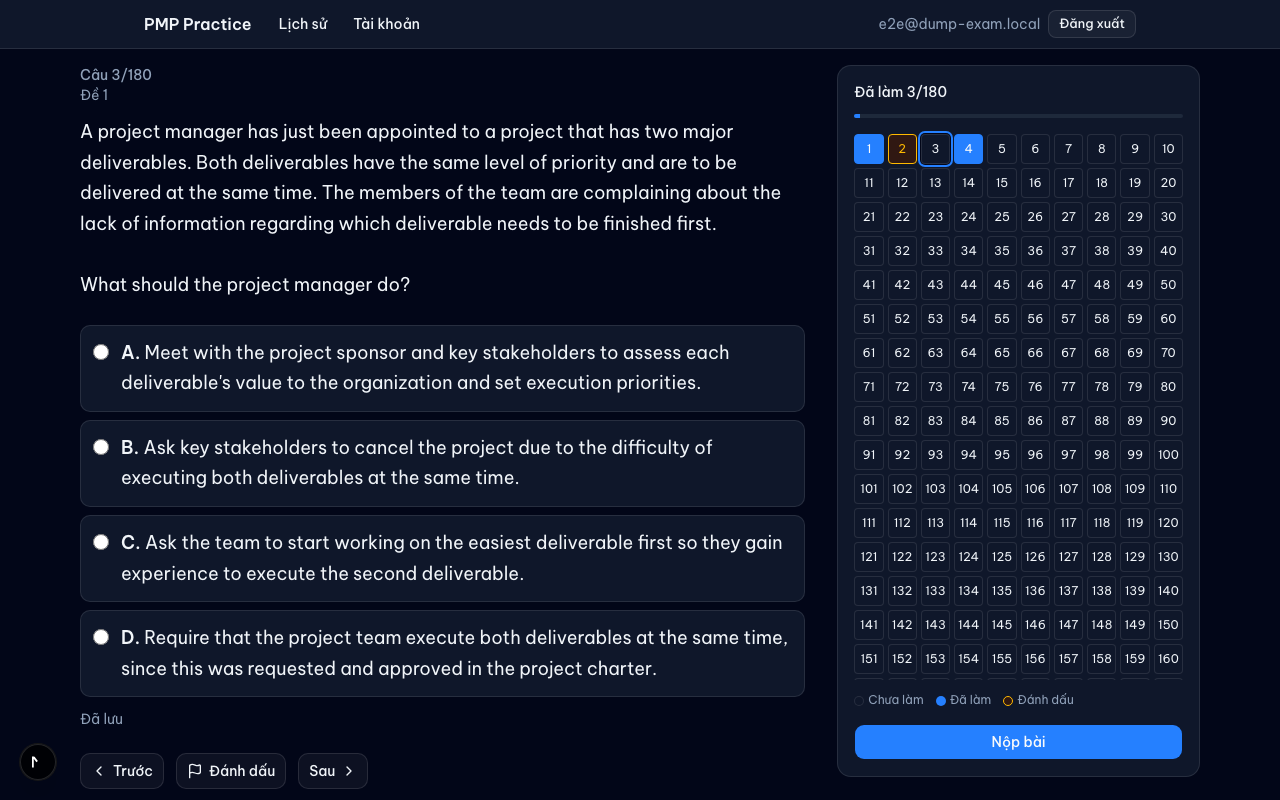
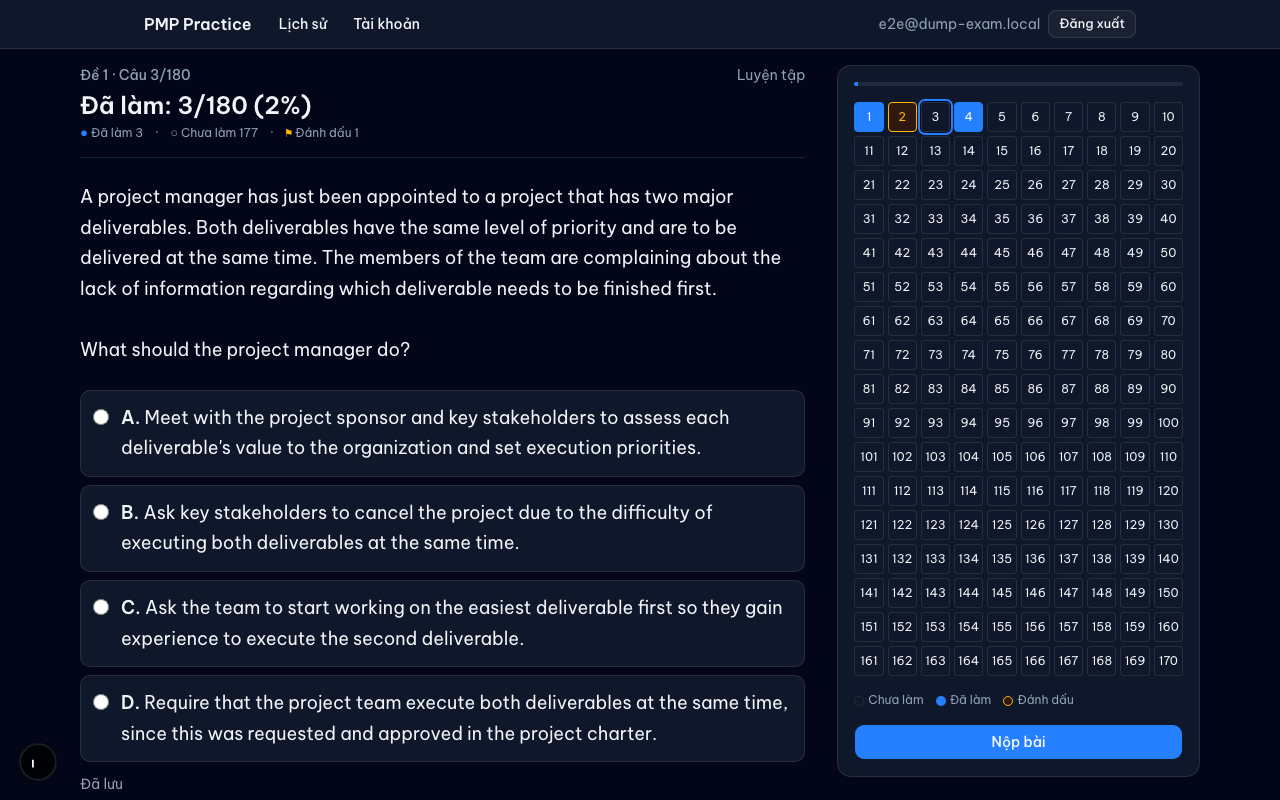
feat(attempt): shared 3-line header on Attempt and Result screens
Exam name, position, main figure and stats stay in view; Result tabs show counts.

diff --git a/e2e/attempt.spec.ts b/e2e/attempt.spec.ts
@@ -17,13 +17,15 @@ test("desktop: keyboard switches, answers and marks; the answer survives a reloa
   await page.setViewportSize({ width: 1280, height: 800 });
   await startPractice(page);
   await expect(page.getByRole("link", { name: "Lịch sử" })).toBeVisible(); // shared header
-  await expect(visible(page, "Câu 1/180")).toBeVisible();
+  await expect(visible(page, "Đề 1 · Câu 1/180")).toBeVisible();
 
   await page.keyboard.press("ArrowRight");
   await expect(page).toHaveURL(/\?q=2$/);
-  await expect(visible(page, "Câu 2/180")).toBeVisible();
+  await expect(visible(page, "Đề 1 · Câu 2/180")).toBeVisible();
+  await expect(visible(page, "Đã làm: 0/180 (0%)")).toBeVisible();
   await page.keyboard.press("a");
   await expect(page.getByRole("button", { name: "Câu 2, đã trả lời" })).toBeVisible();
+  await expect(visible(page, "Đã làm: 1/180 (1%)")).toBeVisible();
   await expect(page.getByRole("status")).toHaveText("Đã lưu");
   await page.keyboard.press("m");
   await expect(page.getByRole("button", { name: "Câu 2, đánh dấu" })).toBeVisible();
@@ -35,11 +37,11 @@ test("desktop: keyboard switches, answers and marks; the answer survives a reloa
   await page.waitForURL(/\/history/);
   await page.goBack(); // the Router Cache holds the page as first loaded, with nothing answered: it must refresh
   await expect(page.getByRole("button", { name: "Câu 2, đánh dấu" })).toBeVisible();
-  await expect(visible(page, "Câu 2/180")).toBeVisible();
+  await expect(visible(page, "Đề 1 · Câu 2/180")).toBeVisible();
   await expect(page.locator("fieldset input").first()).toBeChecked();
 
   await page.reload(); // saved on the server, and ?q=2 opens the same Question
-  await expect(visible(page, "Câu 2/180")).toBeVisible();
+  await expect(visible(page, "Đề 1 · Câu 2/180")).toBeVisible();
   await expect(page.locator("fieldset input").first()).toBeChecked();
   await expect(page.getByRole("button", { name: "Câu 2, đánh dấu" })).toBeVisible();
 
@@ -57,16 +59,17 @@ test("desktop: keyboard switches, answers and marks; the answer survives a reloa
   await page.keyboard.press("ArrowRight"); // ignored while a Dialog is open
   await expect(page).not.toHaveURL(/\?q=2/);
   await page.getByRole("dialog").getByRole("button", { name: "Nộp bài" }).click();
-  await expect(page.getByText(/^\d+\/180/).filter({ visible: true }).first()).toBeVisible();
-  await expect(page.getByText(/^\d+\/180/).first()).toBeVisible(); // Score
+  await expect(page.getByText(/^Điểm: \d+\/180/).filter({ visible: true })).toBeVisible(); // Score
+  await expect(visible(page, "Đề 1 · Câu 1/180")).toBeVisible();
+  await expect(page.getByRole("tab", { name: /^Tất cả 180$/ })).toBeVisible();
   await page.waitForLoadState("networkidle");
 
   // Result: tab Sai keeps only wrong Questions in the grid, ←/→ walk inside it, the URL follows
   const grid = page.locator("aside ol button");
   await expect(grid).toHaveCount(180);
-  await page.getByRole("tab", { name: "Sai" }).click();
+  await page.getByRole("tab", { name: /^Sai \d+$/ }).click();
   await expect(page).toHaveURL(/f=wrong/);
-  await expect(page.getByRole("tab", { name: "Sai" })).toHaveAttribute("aria-selected", "true");
+  await expect(page.getByRole("tab", { name: /^Sai \d+$/ })).toHaveAttribute("aria-selected", "true");
   const n = await grid.count();
   expect(n).toBeGreaterThanOrEqual(179); // only Câu 2 could be right
   await expect(page.locator('aside ol button[aria-label*=", đúng"]')).toHaveCount(0);
@@ -83,9 +86,9 @@ test("desktop: keyboard switches, answers and marks; the answer survives a reloa
 test("mobile: bottom bar moves, the grid drawer jumps to a Question, submit from the drawer", async ({ page }) => {
   await page.setViewportSize({ width: 390, height: 844 });
   await startPractice(page);
-  await expect(visible(page, "Câu 1/180")).toBeVisible();
+  await expect(visible(page, "Đề 1 · Câu 1/180")).toBeVisible();
   await button(page, "Sau").click();
-  await expect(visible(page, "Câu 2/180")).toBeVisible();
+  await expect(visible(page, "Đề 1 · Câu 2/180")).toBeVisible();
   await button(page, "Đánh dấu").click();
 
   await button(page, "Lưới câu").click();
@@ -93,7 +96,7 @@ test("mobile: bottom bar moves, the grid drawer jumps to a Question, submit from
   await expect(drawer.getByRole("button", { name: "Câu 2, đánh dấu" })).toBeVisible();
   await drawer.getByRole("button", { name: "Câu 10, chưa trả lời" }).click();
   await expect(drawer).toBeHidden();
-  await expect(visible(page, "Câu 10/180")).toBeVisible();
+  await expect(visible(page, "Đề 1 · Câu 10/180")).toBeVisible();
   await expect(page).toHaveURL(/\?q=10$/);
 
   await button(page, "Lưới câu").click();
@@ -101,5 +104,5 @@ test("mobile: bottom bar moves, the grid drawer jumps to a Question, submit from
   const confirm = page.getByRole("dialog").filter({ hasText: "Nộp bài?" });
   await expect(confirm).toContainText("Còn 180 câu chưa trả lời, 1 câu đánh dấu");
   await confirm.getByRole("button", { name: "Nộp bài" }).click();
-  await expect(page.getByText(/^\d+\/180/).filter({ visible: true }).first()).toBeVisible();
+  await expect(page.getByText(/^Điểm: \d+\/180/).filter({ visible: true })).toBeVisible();
 });

diff --git a/app/attempts/[id]/result-screen.tsx b/app/attempts/[id]/result-screen.tsx
@@ -6,10 +6,12 @@ import { Badge } from "@/components/ui/badge";
 import { Button } from "@/components/ui/button";
 import type { Choice } from "@/db/schema";
 import { cn } from "@/lib/utils";
-import { inTab, resultCell, type ResultTab } from "./logic";
-import { QuestionLayout, usePosition } from "./question-layout";
+import { formatDuration, inTab, resultCell, type ResultTab } from "./logic";
+import { QuestionLayout, Stats, usePosition } from "./question-layout";
 
 type Question = { id: number; text: string; choices: (Choice & { percent: number })[]; correct: string; suggested: string; selected: string[]; isCorrect: boolean; marked: boolean };
+
+const TIME_LIMIT_MIN = 230; // keep in step with TIME_LIMIT_MS in lib/attempts.ts (not importable into a client file)
 
 const tabs: { value: ResultTab; label: string }[] = [
   { value: undefined, label: "Tất cả" },
@@ -18,7 +20,7 @@ const tabs: { value: ResultTab; label: string }[] = [
 ];
 
 /** Read-only Result: all Questions arrive once, the tab and position switch on the client (`?f=`, `?q=` follow via replaceState). */
-export function ResultScreen(props: { examName: string; score: number; timed: boolean; minutes: number; questions: Question[]; initialPos: number; initialTab: ResultTab }) {
+export function ResultScreen(props: { examName: string; score: number; timed: boolean; durationSec: number; questions: Question[]; initialPos: number; initialTab: ResultTab }) {
   const { questions: qs } = props;
   const total = qs.length;
   const [pos, go] = usePosition(props.initialPos);
@@ -49,36 +51,40 @@ export function ResultScreen(props: { examName: string; score: number; timed: bo
   });
   const pct = Math.round((props.score / total) * 100);
 
-  const header = (
-    <header className="mb-6 border-b pb-4">
-      <p className="text-sm text-muted-foreground">{props.examName}</p>
-      <p className="mt-1 text-3xl font-semibold tabular-nums">
-        {props.score}/{total} <span className="text-xl text-muted-foreground">({pct}%)</span>
-      </p>
-      <p className="mt-1 text-sm text-muted-foreground">
-        {props.timed ? "Thi thử có bấm giờ" : "Luyện tập không bấm giờ"} · {props.minutes} phút
-      </p>
-      <div role="tablist" aria-label="Lọc câu" className="mt-4 flex flex-wrap gap-2">
-        {tabs.map((t) => (
-          <Button key={t.label} role="tab" aria-selected={tab === t.value} variant={tab === t.value ? "default" : "outline"} size="sm" onClick={() => pickTab(t.value)}>
-            {t.label}
-          </Button>
-        ))}
-      </div>
-    </header>
+  const blank = qs.filter((x) => !x.selected.length).length;
+  const wrongTab = qs.filter((x) => !x.isCorrect).length; // blanks are wrong (Score rule)
+  const markedN = qs.filter((x) => x.marked).length;
+  const counts = { all: total, wrong: wrongTab, marked: markedN };
+  const tabBar = (
+    <div role="tablist" aria-label="Lọc câu" className="flex flex-wrap gap-2">
+      {tabs.map((t) => (
+        <Button key={t.label} role="tab" aria-selected={tab === t.value} variant={tab === t.value ? "default" : "outline"} size="sm" onClick={() => pickTab(t.value)}>
+          {t.label} {counts[t.value ?? "all"]}
+        </Button>
+      ))}
+    </div>
   );
 
   return (
     <QuestionLayout
+      examName={props.examName}
+      meta={props.timed ? `Thi thử · ${formatDuration(props.durationSec)} / ${TIME_LIMIT_MIN} phút` : `Luyện tập · ${formatDuration(props.durationSec)}`}
+      figure={`Điểm: ${props.score}/${total} (${pct}%)`}
+      stats={
+        <Stats
+          items={[
+            { glyph: "✓", label: "Đúng", n: total - wrongTab, tone: "text-correct" },
+            { glyph: "✗", label: "Sai", n: wrongTab - blank, tone: "text-wrong" },
+            { glyph: "○", label: "Bỏ trống", n: blank },
+            { glyph: "⚑", label: "Đánh dấu", n: markedN, tone: "text-marked" },
+          ]}
+        />
+      }
+      tabs={tabBar}
       pos={pos}
       total={total}
       cells={cells}
       onGo={go}
-      side={
-        <p className="text-sm font-medium tabular-nums">
-          {props.score}/{total} ({pct}%) · {shown.length} câu
-        </p>
-      }
       footer={
         <>
           <p className="flex flex-wrap gap-x-3 gap-y-1 text-xs text-muted-foreground">
@@ -89,7 +95,6 @@ export function ResultScreen(props: { examName: string; score: number; timed: bo
         </>
       }
     >
-      {header}
       {!shown.length || !q ? (
         <p className="rounded-xl border bg-card p-6 text-center text-muted-foreground">
           {tab === "wrong" ? "Không có câu sai nào. Làm tốt lắm!" : tab === "marked" ? "Bạn chưa đánh dấu câu nào." : "Không có câu nào."}

diff --git a/app/attempts/[id]/question-layout.tsx b/app/attempts/[id]/question-layout.tsx
@@ -33,6 +33,11 @@ const isTyping = (t: EventTarget | null) =>
  * bars and a grid drawer on mobile, ←/→ between `cells`. Other shortcuts go to `onCommand`, which returns whether it used them.
  */
 export function QuestionLayout(props: {
+  examName: string; // line 1: "Đề 2 · Câu 72/180"
+  meta?: React.ReactNode; // line 1, right-aligned
+  figure: React.ReactNode; // line 2
+  stats: React.ReactNode; // line 3, see Stats
+  tabs?: React.ReactNode; // Result: above the grid on desktop, below line 3 on mobile
   pos: number;
   total: number;
   cells: GridCell[]; // the Questions you can move between, in order (Result may pass a filtered list)
@@ -49,6 +54,7 @@ export function QuestionLayout(props: {
   const i = cells.findIndex((c) => c.pos === pos);
   const prev = cells[i - 1]?.pos;
   const next = cells[i + 1]?.pos;
+  const heading = `${props.examName} · Câu ${pos}/${total}`;
 
   useEffect(() => {
     function onKey(e: KeyboardEvent) {
@@ -107,9 +113,7 @@ export function QuestionLayout(props: {
   return (
     <>
       <div className="sticky top-0 z-10 flex items-center gap-3 border-b bg-background px-4 py-2 lg:hidden">
-        <span className="font-medium tabular-nums">
-          Câu {pos}/{total}
-        </span>
+        <span className="min-w-0 truncate font-medium tabular-nums">{heading}</span>
         {props.timer}
         <Sheet open={gridOpen} onOpenChange={setGridOpen}>
           <SheetTrigger render={<Button variant="outline" className="ml-auto" />}>
@@ -128,9 +132,18 @@ export function QuestionLayout(props: {
 
       <main className="mx-auto max-w-6xl p-4 pb-24 lg:grid lg:grid-cols-[minmax(0,2fr)_minmax(0,1fr)] lg:gap-8 lg:pb-8">
         <div>
-          <p className="hidden text-sm font-medium text-muted-foreground tabular-nums lg:block">
-            Câu {pos}/{total}
-          </p>
+          <header className="mb-6 border-b pb-4">
+            <div className="hidden items-baseline justify-between gap-3 text-sm text-muted-foreground lg:flex">
+              <p className="min-w-0 truncate font-medium tabular-nums">{heading}</p>
+              {props.meta && <p className="shrink-0">{props.meta}</p>}
+            </div>
+            <div className="flex items-baseline justify-between gap-3 lg:mt-1">
+              <p className="whitespace-nowrap text-xl font-semibold tabular-nums lg:text-2xl">{props.figure}</p>
+              {props.meta && <p className="shrink-0 text-sm text-muted-foreground lg:hidden">{props.meta}</p>}
+            </div>
+            <p className="mt-1 flex flex-wrap gap-x-3 gap-y-1 text-xs text-muted-foreground tabular-nums">{props.stats}</p>
+            {props.tabs && <div className="mt-4 lg:hidden">{props.tabs}</div>}
+          </header>
           {props.children}
           <nav className="mt-6 hidden items-center gap-3 lg:flex">
             {prevButton}
@@ -145,6 +158,7 @@ export function QuestionLayout(props: {
           <div className="sticky top-4 flex max-h-[calc(100dvh-5.5rem)] flex-col gap-4 rounded-xl border bg-card p-4">
             {props.timer}
             {props.side}
+            {props.tabs}
             {grid}
             {props.footer}
           </div>
@@ -158,4 +172,14 @@ export function QuestionLayout(props: {
       </nav>
     </>
   );
+}
+
+/** Line 3: muted glyph + label + count per item; `tone` is a theme-token text class. */
+export function Stats({ items }: { items: { glyph: string; label: string; n: number; tone?: string }[] }) {
+  return items.map((x, i) => (
+    <span key={x.label}>
+      {i > 0 && <span aria-hidden className="mr-3">·</span>}
+      <span aria-hidden className={x.tone}>{x.glyph}</span> {x.label} {x.n}
+    </span>
+  ));
 }

diff --git a/app/attempts/[id]/attempt-screen.tsx b/app/attempts/[id]/attempt-screen.tsx
@@ -8,7 +8,7 @@ import type { Choice } from "@/db/schema";
 import { Choices } from "./choices";
 import { Countdown, MarkButton, SubmitForm } from "./controls";
 import { attemptCell, toggleChoice, type AttemptCell, type Command } from "./logic";
-import { QuestionLayout, usePosition } from "./question-layout";
+import { QuestionLayout, Stats, usePosition } from "./question-layout";
 
 type Question = { id: number; text: string; choices: Choice[]; need: number; selected: string[]; marked: boolean };
 type Saved = Pick<Question, "selected" | "marked">;
@@ -117,6 +117,18 @@ export function AttemptScreen(props: { attemptId: number; examName: string; ques
 
   return (
     <QuestionLayout
+      examName={props.examName}
+      meta={props.msLeft !== null ? "Thi thử · 230 phút" : "Luyện tập"}
+      figure={`Đã làm: ${answered}/${total} (${Math.round((answered / total) * 100)}%)`}
+      stats={
+        <Stats
+          items={[
+            { glyph: "●", label: "Đã làm", n: answered, tone: "text-primary" },
+            { glyph: "○", label: "Chưa làm", n: total - answered },
+            { glyph: "⚑", label: "Đánh dấu", n: marked, tone: "text-marked" },
+          ]}
+        />
+      }
       pos={pos}
       total={total}
       cells={cells}
@@ -132,11 +144,7 @@ export function AttemptScreen(props: { attemptId: number; examName: string; ques
         )
       }
       side={
-        <Progress value={(answered / total) * 100}>
-          <span className="text-sm font-medium">
-            Đã làm {answered}/{total}
-          </span>
-        </Progress>
+        <Progress value={(answered / total) * 100} aria-label="Tiến độ" />
       }
       footer={
         <>
@@ -150,8 +158,7 @@ export function AttemptScreen(props: { attemptId: number; examName: string; ques
       }
       actions={<MarkButton marked={q.marked} onToggle={toggleMark} />}
     >
-      <p className="text-sm text-muted-foreground">{props.examName}</p>
-      <article className="mt-3">
+      <article>
         <div className="question-text" dangerouslySetInnerHTML={{ __html: q.text }} /> {/* sanitized at import */}
         <Choices key={q.id} questionId={q.id} choices={q.choices} need={q.need} selected={q.selected} onPick={pick} />
       </article>

diff --git a/e2e/screenshots.spec.ts b/e2e/screenshots.spec.ts
@@ -33,7 +33,7 @@ test.describe("screenshots", () => {
         await shot("attempt");
         await page.getByRole("button", { name: "Nộp bài" }).click();
         await page.getByRole("dialog").getByRole("button", { name: "Nộp bài" }).click();
-        await page.getByText(/^\d+\/180/).filter({ visible: true }).first().waitFor();
+        await page.getByText(/^Điểm: \d+\/180/).filter({ visible: true }).first().waitFor();
         await page.goto("/");
         await shot("home-after");
         await page.getByRole("link", { name: /câu/ }).first().click();
@@ -75,7 +75,7 @@ test.describe("screenshots 03", () => {
       }
       await page.getByRole("button", { name: "Nộp bài" }).filter({ visible: true }).first().click();
       await page.getByRole("dialog").getByRole("button", { name: "Nộp bài" }).click();
-      await page.getByText(/^\d+\/180/).filter({ visible: true }).first().waitFor();
+      await page.getByText(/^Điểm: \d+\/180/).filter({ visible: true }).first().waitFor();
       await page.context().close();
     });
   }
@@ -104,7 +104,7 @@ test.describe("screenshots 04", () => {
       if (run.name === "mobile") await page.getByRole("button", { name: "Lưới câu" }).click();
       await page.getByRole("button", { name: "Nộp bài" }).filter({ visible: true }).first().click();
       await page.getByRole("dialog").getByRole("button", { name: "Nộp bài" }).click();
-      await page.getByText(/^\d+\/180/).filter({ visible: true }).first().waitFor();
+      await page.getByText(/^Điểm: \d+\/180/).filter({ visible: true }).first().waitFor();
       await page.waitForLoadState("networkidle");
       await shot();
       if (run.name === "mobile") {
@@ -114,7 +114,7 @@ test.describe("screenshots 04", () => {
         await shot("-drawer");
         await page.keyboard.press("Escape");
       }
-      await page.getByRole("tab", { name: "Sai" }).click();
+      await page.getByRole("tab", { name: /^Sai \d+$/ }).click();
       await page.waitForTimeout(200);
       await shot("-sai");
       await page.context().close();

diff --git a/tests/attempt-screen.test.ts b/tests/attempt-screen.test.ts
@@ -1,6 +1,6 @@
 import { test } from "node:test";
 import assert from "node:assert/strict";
-import { attemptCell, inTab, keyCommand, resultCell, toggleChoice } from "@/app/attempts/[id]/logic";
+import { attemptCell, formatDuration, inTab, keyCommand, resultCell, toggleChoice } from "@/app/attempts/[id]/logic";
 
 const key = (k: string, extra: Partial<Parameters<typeof keyCommand>[0]> = {}) => keyCommand({ key: k, mod: false, typing: false, dialog: false, repeat: false, composing: false, ...extra });
 
@@ -60,4 +60,16 @@ test("result tabs: all, wrong only, marked only", () => {
   assert.equal(inTab("wrong", { ...q, isCorrect: false }), true);
   assert.equal(inTab("marked", q), false);
   assert.equal(inTab("marked", { ...q, marked: true }), true);
+});
+
+test("duration: under a minute, minutes, hours and minutes, exact hours", () => {
+  const f = (min: number, sec = 0) => formatDuration(min * 60 + sec);
+  assert.equal(f(0), "< 1 phút");
+  assert.equal(f(0, 59), "< 1 phút");
+  assert.equal(f(1), "1 phút");
+  assert.equal(f(12), "12 phút");
+  assert.equal(f(60), "1 giờ");
+  assert.equal(f(83), "1 giờ 23 phút");
+  assert.equal(f(120), "2 giờ");
+  assert.equal(f(230), "3 giờ 50 phút");
 });

diff --git a/app/attempts/[id]/logic.ts b/app/attempts/[id]/logic.ts
@@ -37,3 +37,11 @@ export const resultCell = (q: { isCorrect: boolean; marked: boolean }) => ({ cor
 
 /** Whether a Question belongs to the Result tab. */
 export const inTab = (tab: ResultTab, q: { isCorrect: boolean; marked: boolean }) => (tab === "wrong" ? !q.isCorrect : tab === "marked" ? q.marked : true);
+
+/** Time spent: "< 1 phút", "12 phút", "1 giờ 23 phút", "2 giờ". */
+export function formatDuration(sec: number): string {
+  const min = Math.floor(sec / 60);
+  if (min < 1) return "< 1 phút";
+  const [h, m] = [Math.floor(min / 60), min % 60];
+  return [h && `${h} giờ`, (m || !h) && `${m} phút`].filter(Boolean).join(" ");
+}

diff --git a/app/attempts/[id]/page.tsx b/app/attempts/[id]/page.tsx
@@ -27,7 +27,7 @@ export default async function AttemptPage({ params, searchParams }: { params: Pr
         examName={result.examName}
         score={score ?? 0}
         timed={result.timed}
-        minutes={Math.round(((result.submittedAt?.getTime() ?? 0) - result.startedAt.getTime()) / 60000)}
+        durationSec={Math.round(((result.submittedAt?.getTime() ?? 0) - result.startedAt.getTime()) / 1000)}
         questions={result.questions}
         initialPos={pos}
         initialTab={filter}

diff --git a/.scratch/ui-refresh/issues/03-man-lam-bai.md b/.scratch/ui-refresh/issues/03-man-lam-bai.md
@@ -25,3 +25,4 @@
 - E2E chờ `networkidle` trước khi bấm phím (phím bấm trước hydrate bị mất). Ảnh: `SHOTS=03 npm run e2e -- screenshots` → `03-desktop`, `03-desktop-dark`, `03-desktop-timed`, `03-mobile`, `03-mobile-drawer`.
 - Sửa sau review ba104b8: lỗi lưu theo dõi riêng từng câu/field (`failed` là Set key), báo "Không lưu được Câu N…" tới khi chính lần lưu mới nhất của key đó thành công. `toggleMark` → `setMark(…, marked)` (giá trị tường minh, lặp lại vô hại). ←/→ luôn `preventDefault` kể cả ở câu đầu/cuối; bỏ qua `repeat` (chữ cái, M) và `isComposing`. `?q=` rác/lẻ/ngoài khoảng → `Math.trunc` + kẹp, mặc định 1. Fieldset 1 đáp án có legend ẩn "Chọn 1 lựa chọn"; gợi ý phím "A–E: chọn".
 - Back/Forward: `components/refresh-on-return.tsx` (`RefreshOnReturn renderId`) gọi `router.refresh()` chỉ khi mount lại một bản render đã hiển thị (Router Cache) hoặc `pageshow.persisted`; lần vào đầu không tốn thêm request. Gắn ở Attempt, `/exams/[id]`, home. `AttemptScreen` nhận `questions` mới thì thay state, trừ field còn đang lưu; `usePosition` theo `initialPos` mới. E2E: trả lời → Lịch sử → Back → câu vẫn đã trả lời/đánh dấu (đã thử tắt refresh thì đỏ).
+- Header chung (`QuestionLayout`: `examName`/`meta`/`figure`/`stats`/`tabs`): dòng 1 `Đề N · Câu X/180` (thanh trên cùng trên mobile, cắt tên đề nếu dài) + meta bên phải, dòng 2 số chính (`Đã làm: X/180 (Y%)`), dòng 3 thống kê `Stats` bằng token theme. Bỏ chữ "Đã làm X/180" ở cột phải, giữ thanh tiến độ và Countdown.

diff --git a/.scratch/ui-refresh/issues/04-man-result.md b/.scratch/ui-refresh/issues/04-man-result.md
@@ -21,3 +21,4 @@
 - Mỗi Choice: badge "Bạn chọn", "Correct Answer", "Suggested Answer" (chỉ khi khác Correct Answer) và thanh % vote (`role="meter"`).
 - Chữ "đã nộp" không còn ở header; e2e chờ Score `N/180`. Dữ liệu seed e2e không có Vote nên ảnh chụp luôn 0% và toàn ô đỏ.
 - Ảnh: `SHOTS=04 npm run e2e -- screenshots` → `04-desktop`, `04-desktop-dark`, `04-mobile`, `04-mobile-drawer`, và `-sai` cho mỗi bản.
+- Header chung với màn làm bài: `Điểm: X/180 (Y%)`, thống kê Đúng/Sai/Bỏ trống/Đánh dấu (Sai không gồm bỏ trống), meta `Thi thử · thời gian / 230 phút` hoặc `Luyện tập · thời gian` (`formatDuration` trong `logic.ts`, có test). Tab có số đếm (tab Sai gồm câu bỏ trống, theo luật Score); desktop tab nằm trên lưới ở cột phải, mobile dưới dòng 3.
